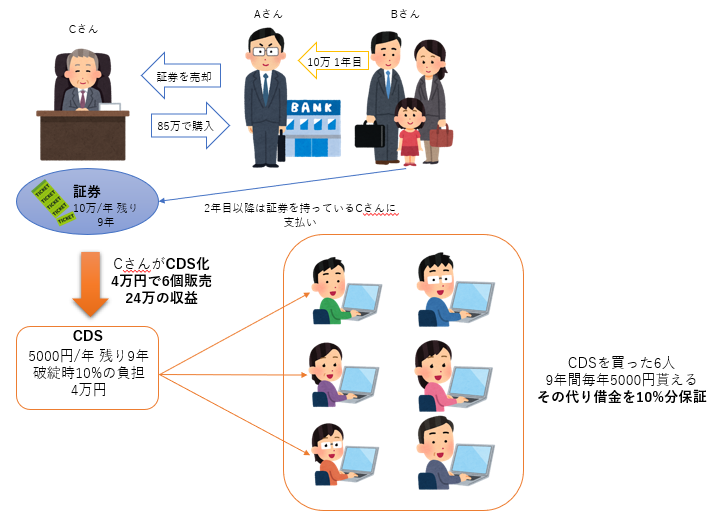
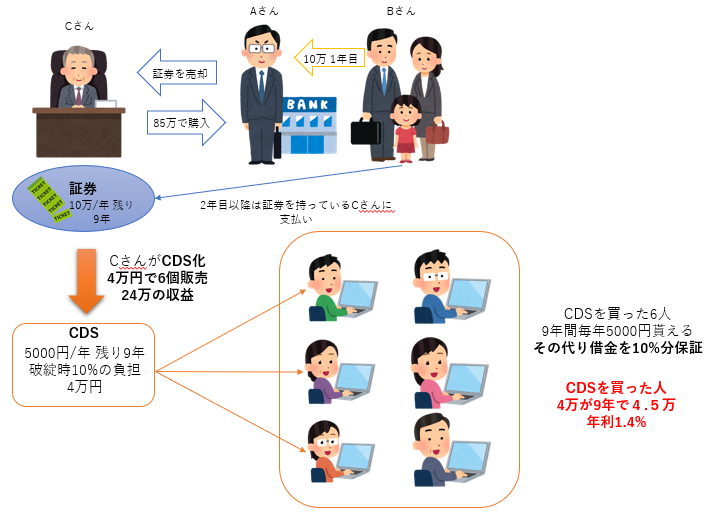
update

diff --git a/2018xxxx_2008-financial-crisis/PITCHME.md b/2018xxxx_2008-financial-crisis/PITCHME.md
@@ -37,7 +37,16 @@ ANAの株主優待(航空券)が欲しかった
 1. リーマン・ショック前の状態
 2. 証券化
 3. CDS
+4. 信用格付け
 5. リーマン破綻
+
+ｰｰｰ
+
+### 注意
+
+金融の専門家ではありません。<br>
+細かい所間違ってるかもしれませんが、<br>
+当時何が起こったか大まかな流れは合ってるはず
 
 ---
 
@@ -219,7 +228,7 @@ etc.
 ---
 
 これ考えたの悪魔じゃねぇの？(私見)<br>
-って金融商品があったんですよ<br>
+って金融商品があった<br>
 
 ---
 
@@ -236,12 +245,13 @@ etc.
 
 ---
 
-で、分かりやすく言うと？
+## で、分かりやすく言うと？
 
 ---
 
-毎月xxx円もらうけど、もし対象になってる借金主が<br>
-払えなくなったら替わりに借金を一部担当してもらう券
+毎月xxx円もらえるけど、もし対象になってる<br>
+借金主が払えなくなったら替わりに<br>
+借金を一部担当してもらう券<br>
 
 ---
 
@@ -250,11 +260,124 @@ etc.
 
 ---
 
-Cさんが証券（青い部分）のCDSを発行して売り出す。
+Cさんが証券（青い部分）のCDSを発行
 
 ![証券化02](/2018xxxx_2008-financial-crisis/img/stock003.png)
 
 ---
+
+@size[32pt](**・Cさん視点**)
+- 85万で証券を購入。毎年10万収入。
+- CDSを売って24万の収入。
+- 毎年3万＊9年の損失。
+
+---
+
+## Bさんがキチンと借金を返したら？
+
+---
+
+Cさんの収益
+<pre>
+- 損失
+   証券購入時の85万円。CDS支払い27万（5000円x6人x9年）
+- 収入
+   Bさんの返済分90万円。CDS売却24万
+- 合計
+   (90+24)-(85+27)= 2
+</pre>
+
+85万が9年で87万なる。（年利0.26％）
+
+---
+
+## **Bさんが破産したら？？**
+
+---
+
+**6年目にBさんが破産したパターン**
+
+![証券化02](/2018xxxx_2008-financial-crisis/img/stock004.png)
+
+---
+
+Cさんの収益
+<pre>
+- 損失
+   証券購入時の85万円。CDS支払い15万（5000円x6人x5年）
+- 収入
+   Bさんの返済分50万円。CDS売却24万
+   CDS購入者の肩代わり 24万 (4万x6)
+- 合計
+   (50+24+24)-(85+15)= -2
+</pre>
+
+**35万の損を2万に減らせた**
+
+ｰｰｰ
+
+ここで確認。<br>
+<br>
+**サブプライム・ローン**って<br>
+どんなものでしたっけ？<br>
+
+---
+
+<pre>
+通常の住宅ローンの審査には通らないような
+信用情報の低い人向けのローン。
+　　1. 所得に対する借り入れが50パーセント以上
+　　2. 過去1年間に30日間の延滞が2回以上あった
+　　3. 過去5年以内に破産したもの
+</pre>
+
+**信用情報の低い人**<br>
+つまり、破産しやすい人<br>
+
+---
+
+こんな怖いもの買わないでしょ？
+
+---
+
+**証券会社が『大丈夫！』**<br>
+って言ったら？
+
+<pre>
+例に上げたパターンなら年利1.4%ですよ？
+</pre>
+
+---
+
+# 信用格付け
+
+---
+
+どれだけ信用していいか。<br>
+"確かの尺度"。 <br>
+
+<pre>
+公社債の発行体（政府や企業）そのものに付けられるものと、個別の
+金融商品（証券化商品など）に付けられるものなどが存在する。
+なお、一般にニュースや、新聞等で格付といわれているものは、
+信用格付を表していることが多い
+</pre>
+
+---
+
+![証券化02](/2018xxxx_2008-financial-crisis/img/rating.png)
+
+---
+
+で、これだけが決めるの？？
+
+---
+
+証券会社や格付け機関
+
+---
+
+
 
 
 
